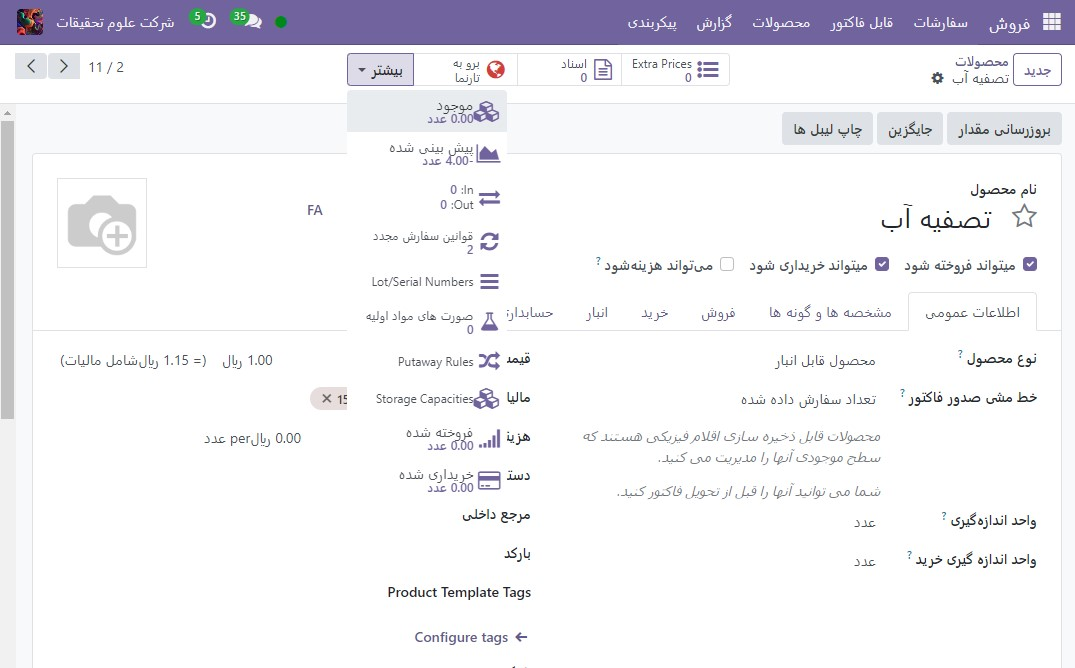
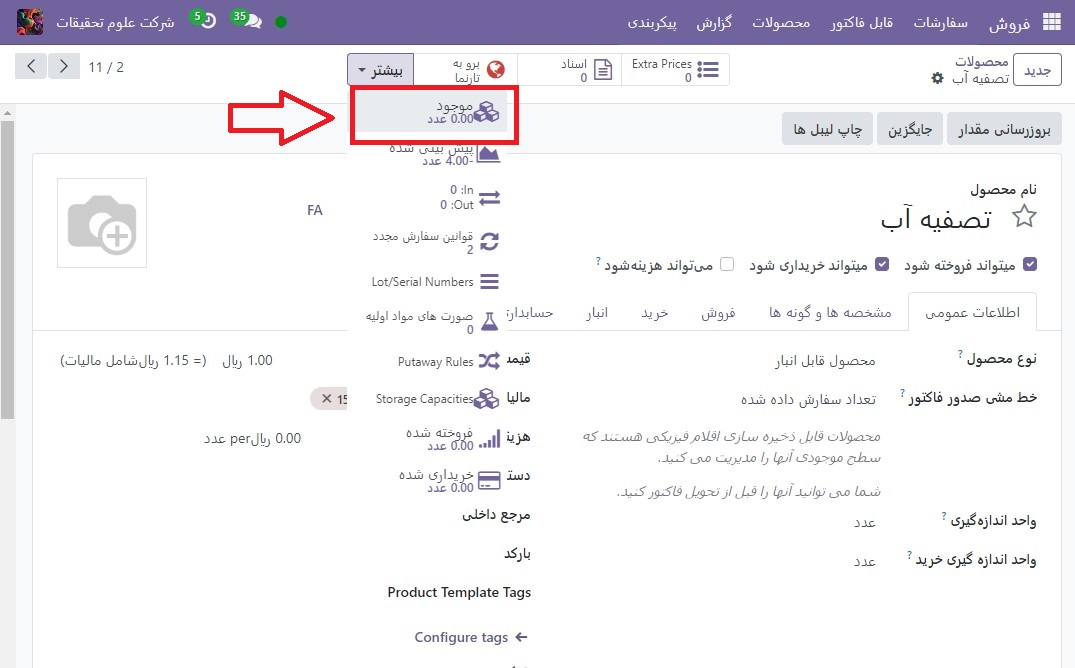
[fix]least packages removal

Changed region(s): [[0.2149, 0.1198, 0.4912, 0.2395]]

diff --git a/content/applications/inventory/warehouses and storage/removal strategies/least packages removal.rst b/content/applications/inventory/warehouses and storage/removal strategies/least packages removal.rst
@@ -1,0 +1,58 @@
+:nosearch:
+:show-content:
+:hide-page-toc:
+:show-toc:
+
+
+=================================
+حداقل حذف بسته ها
+=================================
+
+
+استراتژی حذف حداقل بستهها با باز کردن کمترین تعداد بسته، یک سفارش را انجام میدهد، که برای نگهداری انبار سازمانیافته بدون نیاز به باز کردن چندین جعبه ایدهآل است.
+
+
+برای درک نحوه عملکرد استراتژی حذف، مثال زیر را در نظر بگیرید که دارای انباری است که بستههای آرد را در بستههای فله ۱۰۰ کیلوگرمی ذخیره میکند.
+
+برای به حداقل رساندن رطوبت، و/یا جلوگیری از ورود آفات به بستههای باز، استراتژی حذف حداقل بستهها برای برداشت از یک بسته باز استفاده میشود.
+
+.. example::
+    بسته 100 کیلوگرمی آرد پس از انجام برخی سفارشات به 54 کیلوگرم کاهش می یابد. بسته های 100 کیلوگرمی دیگری نیز در انبار موجود است.
+
+    #. هنگام سفارش 14 کیلوگرم آرد، بسته بندی 54 کیلوگرمی انتخاب می شود.
+
+    #. هنگام سفارش بیش از 54 کیلوگرم آرد، برای انجام سفارش از بسته بندی 100 کیلوگرمی باز نشده استفاده می شود. در حالی که این به طور موقت منجر به دو بسته باز می شود، این بسته های باز در انتخاب بعدی اولویت بندی می شوند.
+
+
+جریان کار
+--------------------------------------------
+با استفاده از حداقل استراتژی حذف بسته، کمترین تعداد بسته برای انجام یک سفارش استفاده می شود.
+
+
+.. important::
+    برای استفاده از این استراتژی، ویژگی Packages(بسته ها) باید فعال باشد.
+
+
+
+مثال زیر را که شامل محصول است ، در نظر بگیرید. واحدهای اندازه گیری محصول ، واقع در فرم محصول ، روی کیلوگرم تنظیم شده است. این محصول در بسته های 100 کیلوگرم ذخیره می شود و یک بسته باقی مانده حاوی 54 کیلوگرم است. استراتژی حذف نیروی بخش محصول حداقل بسته ها تنظیم شده است
+
+
+.. tip::
+    برای بررسی موجودی موجودی محصول، به فرم محصول بروید و روی دکمه هوشمند On Hand کلیک کنید.
+
+    .. image:: ./img/removalstrategies/r6.jpg
+        :align: center
+        :alt: انبار
+
+
+با مراجعه به اپلیکیشن فروش و ایجاد یک قیمت جدید، یک سفارش تحویل برای هشتاد کیلوگرم آرد ایجاد کنید. پس از کلیک بر روی تایید، سفارش تحویل ایجاد می شود.
+
+در سفارش تحویل، فیلد مقدار مقدار انتخاب شده به صورت خودکار را با توجه به استراتژی حذف نمایش می دهد.
+
+برای جزئیات بیشتر درباره محل انتخاب واحدها، نماد ⦙≣ (فهرست گلولهدار) را که در سمت راست سمت راست قرار دارد، انتخاب کنید. با انجام این کار، پنجره بازشو باز می شود: حرکت سهام، نحوه انتخاب اقلام رزرو شده بر اساس استراتژی حذف را نشان می دهد.
+
+در پنجره بازشو Open: Stock move، فیلد Pick from جایی که مقادیر برای برآورده کردن تقاضا انتخاب شده است را نشان می دهد. از آنجایی که سفارش تقاضای هشتاد کیلوگرم داشت که از مقدار بسته بندی باز شده 54 کیلوگرمی بیشتر است، بسته باز نشده 100 کیلوگرمی انتخاب می شود.
+
+.. image:: ./img/removalstrategies/r4.jpg
+    :align: center
+    :alt: انبار

diff --git a/content/applications/inventory/warehouses and storage/removal strategies/closest location removal.rst b/content/applications/inventory/warehouses and storage/removal strategies/closest location removal.rst
@@ -42,7 +42,7 @@
 .. tip::
     برای بررسی موجودی موجود در هر مکان ذخیره سازی، به فرم محصول بروید و روی دکمه هوشمند On Hand کلیک کنید.
 
-    .. image:: ./img/removalstrategies/r5.jpg
+    .. image:: ./img/removalstrategies/r6.jpg
         :align: center
         :alt: انبار
 
